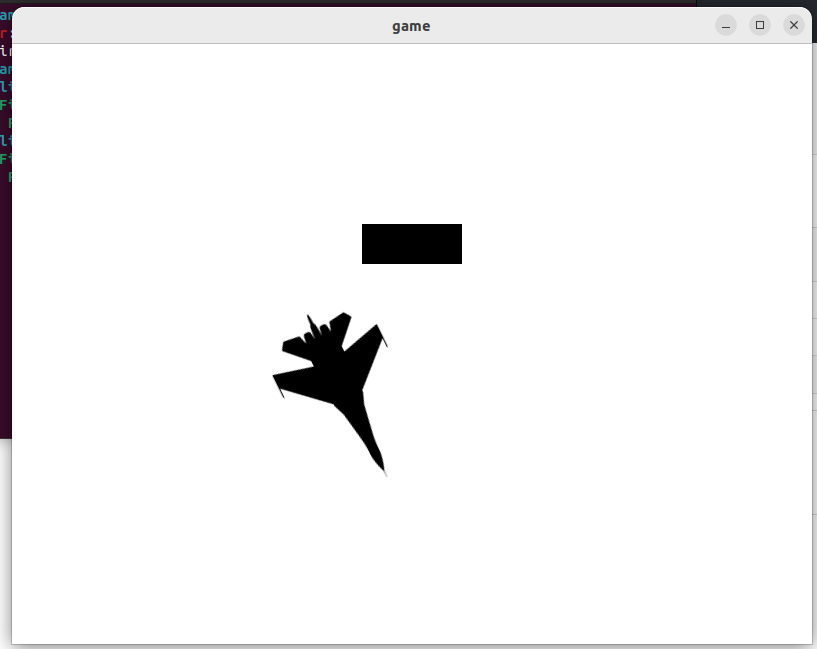
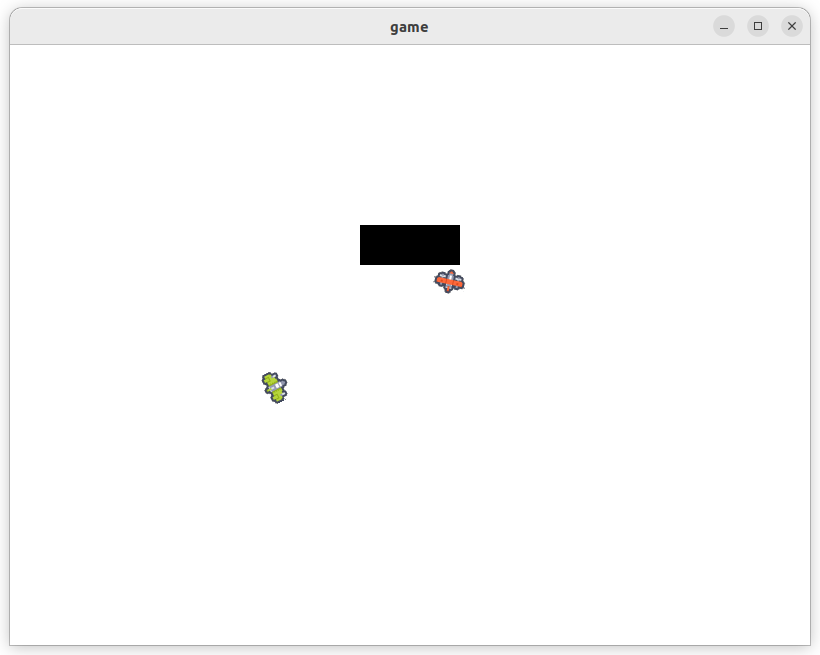
Update docs

diff --git a/README.md b/README.md
@@ -1,7 +1,10 @@
 Following a book <b>Multiplayer Game Development IN RUST</b> by <b>Stephan Dilly and Lyon Beckers</b>
 
-So far you can fly around the screen with a plane just by starting a client.
+Multiple clients can connect to a server and fly with a plane.
 
-Server with a multiplayer is a work in progress... 
+Just go to /client or /server and run command `cargo run`
+
+More functionalities tba ;)
+
 
 ![Alt text](/screen.png?raw=true "screenshot")
